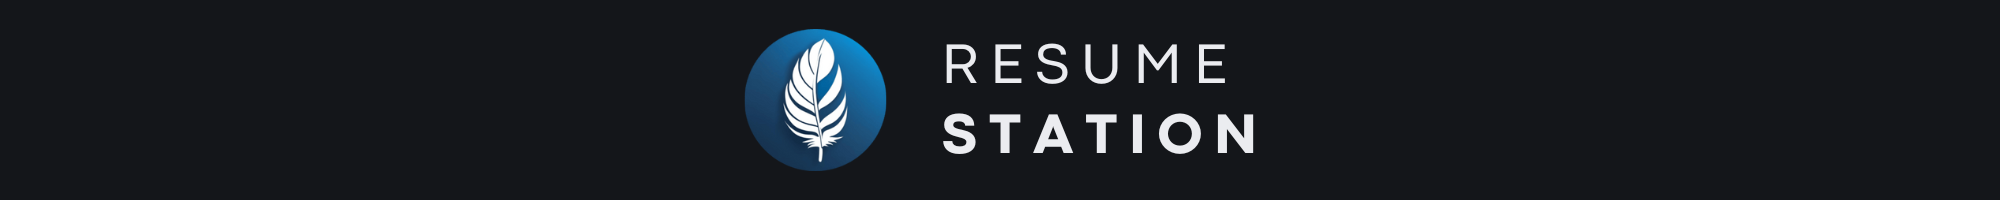
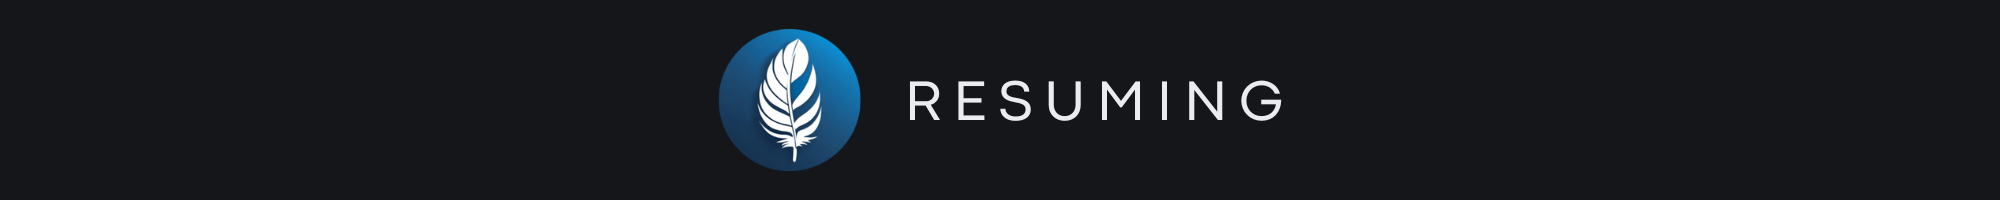
feat: update title to Resuming

Changed region(s): [[0.341, 0.15, 0.651, 0.87]]

diff --git a/static/js/script.js b/static/js/script.js
@@ -1,13 +1,15 @@
+const documentElement = document.documentElement;
+
 const toggleTheme = () => {
-  const currentTheme = document.documentElement.dataset.theme;
+  const currentTheme = documentElement.dataset.theme;
   const contrastTheme = currentTheme === 'dark' ? 'light' : 'dark';
 
-  document.documentElement.dataset.theme = contrastTheme;
+  documentElement.dataset.theme = contrastTheme;
 
   localStorage.setItem('theme', contrastTheme);
 };
 
 document.addEventListener('DOMContentLoaded', () => {
   const theme = localStorage.getItem('theme');
-  if (theme) document.documentElement.dataset.theme = theme;
+  if (theme) documentElement.dataset.theme = theme;
 });

diff --git a/src/main.ts b/src/main.ts
@@ -25,7 +25,7 @@ async function bootstrap() {
   );
 
   const config = new DocumentBuilder()
-    .setTitle('Resume Station')
+    .setTitle('Resuming')
     .setDescription('Platform dedicated to managing and sharing resumes')
     .addTag('app')
     .addTag('auth')

diff --git a/README.md b/README.md
@@ -1,20 +1,23 @@
 <img 
   src="./static/img/_banner.png"
-  alt="Resume Station"
+  alt="Resuming"
   style="width: 100%;"
 />
 
-**Resume Station** is a web platform designed for managing andsharing résumés. With it, users can create accounts and manage up to three profiles, which can be shared via a personalized URL, including their basic information, education, and work experience.
+**Resuming** is a web platform designed for managing andsharing résumés. With it, users can create accounts and manage up to three profiles, which can be shared via a personalized URL, including their basic information, education, and work experience.
 
 ![TypeScript](https://img.shields.io/badge/typescript-%23007ACC.svg?style=for-the-badge&logo=typescript&logoColor=white)
 ![NestJS](https://img.shields.io/badge/nestjs-%23E0234E.svg?style=for-the-badge&logo=nestjs&logoColor=white)
 ![Handlebars](https://img.shields.io/badge/Handlebars-%23000000?style=for-the-badge&logo=Handlebars.js&logoColor=white)
+
+![JavaScript](https://img.shields.io/badge/javascript-%23323330.svg?style=for-the-badge&logo=javascript&logoColor=%23F7DF1E)
 ![HTML5](https://img.shields.io/badge/html5-%23E34F26.svg?style=for-the-badge&logo=html5&logoColor=white)
 ![CSS3](https://img.shields.io/badge/css3-%231572B6.svg?style=for-the-badge&logo=css3&logoColor=white)
 ![Bulma](https://img.shields.io/badge/bulma-00D0B1?style=for-the-badge&logo=bulma&logoColor=white)
-![Swagger](https://img.shields.io/badge/-Swagger-%23Clojure?style=for-the-badge&logo=swagger&logoColor=white)
+
 ![Prisma](https://img.shields.io/badge/Prisma-3982CE?style=for-the-badge&logo=Prisma&logoColor=white)
 ![SQLite](https://img.shields.io/badge/sqlite-%2307405e.svg?style=for-the-badge&logo=sqlite&logoColor=white)
+![Swagger](https://img.shields.io/badge/-Swagger-%23Clojure?style=for-the-badge&logo=swagger&logoColor=white)
 
 ### 🛠 Installation and Setup
 
